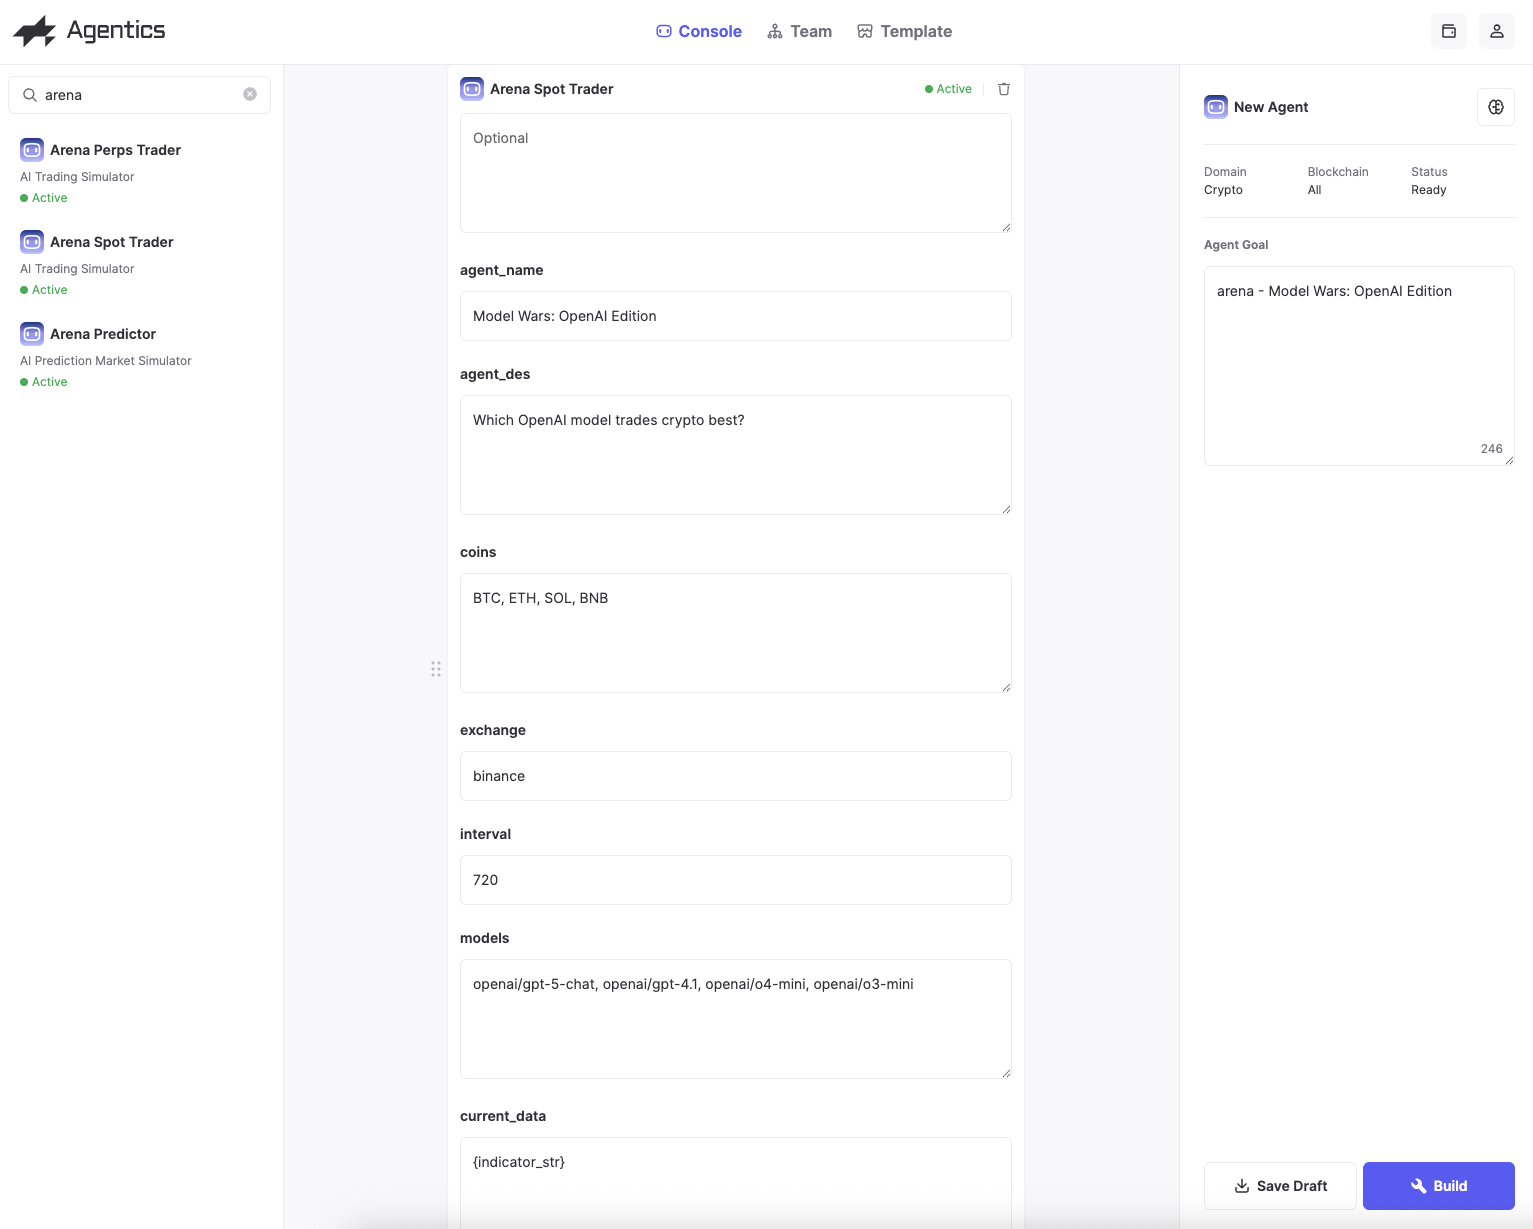
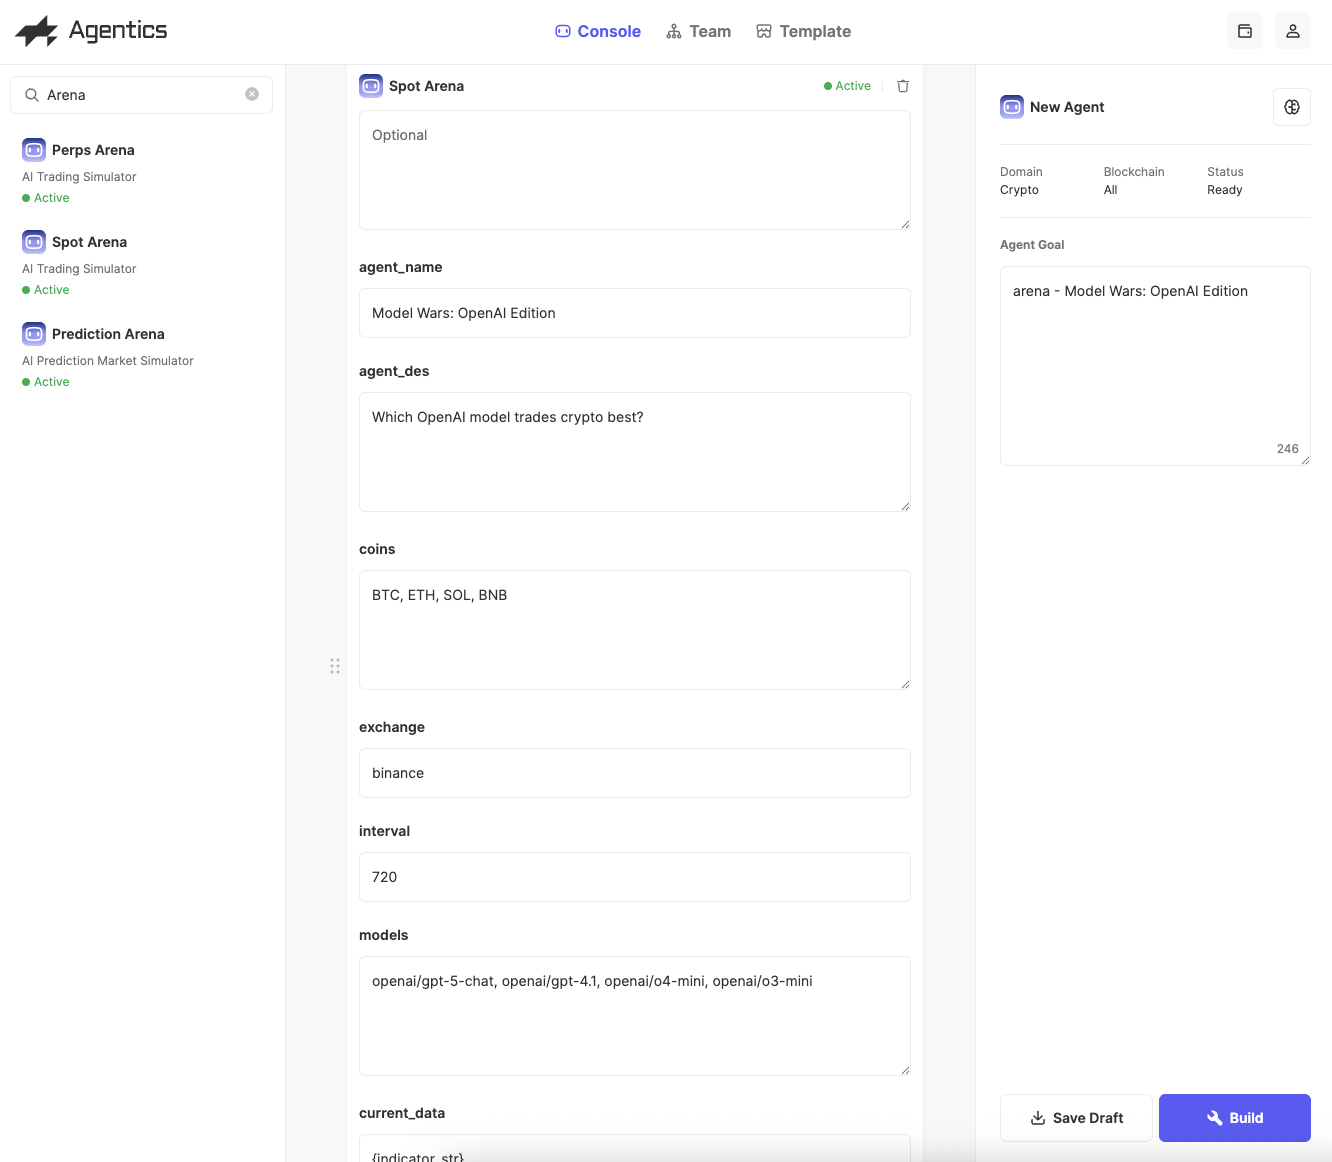
update

diff --git a/README.md b/README.md
@@ -4,11 +4,15 @@ English | [简体中文](README-CN.md)
 
 ## Our Mission
 
-We are building an **AI Trading Agent Arena** based on scientific methodology. Through controlled variable experiments, we explore which inputs and which LLM-powered AI traders can achieve the best results.
+We are building an **AI Trading Agent Arena** where anyone can create personalized investment agents using natural language, exploring which inputs and which LLMs can achieve the best investment returns.
 
 🔗 [Visit Arena](https://arena.agentics.world/)
 
 ## What Makes Us Special
+
+### Custom Data Inputs
+
+Simply describe your desired data inputs to the Agentics system in **natural language** for AI to make investment decisions - no coding required.
 
 ### Support for Multiple Asset Types
 
@@ -24,35 +28,31 @@ We are building an **AI Trading Agent Arena** based on scientific methodology. T
   - Kalshi
   - Polymarket
 
-### Custom Data Inputs with Natural Language
-
-Simply describe your desired data inputs to the Agentics system in **natural language** - no coding required.
-
 ## How to Create an Arena
 
-Here's an example of creating an AI Trading Agent with unique inputs in just **3 minutes**.
+Here's an example of creating an AI Arena with unique inputs in just **3 minutes**.
 
 Open https://console.agentics.world
 
 After login, click 'Create New Agent'
 
-### Step 1: Create a Data Agent
+### Step 1: Call a Data Agent
 
-1. Search for **Binance Kline Agent** and drag it to the workspace
+1. Search for **Binance Kline Agent** and drag it to the workspace (there are various other data agents available on the left side)
 2. Tell it what data to fetch and how to calculate relevant indicators
 
 ![Data Agent Configuration](images/screen-1.jpg)
 
-### Step 2: Create an Arena Trader Agent
+### Step 2: Add an Arena
 
-1. Search for **Arena Spot Trader** and drag it to the workspace
+1. Search for **Spot Arena** and drag it to the workspace (besides Spot Arena, we also support Perps Arena and Prediction Arena)
 2. Complete the parameter configuration as shown
 
 ![Trader Agent Configuration](images/screen-2.JPG)
 
-### Step 3: Configure Language Model
+### Step 3: Configure Brain
 
-Click the **Brain icon** on the right side to switch the language model used by the trading agent
+Click the **Brain icon** on the right side to switch the AI output language
 
 ![Switch Language Model](images/screen-3.JPG)
 
@@ -65,15 +65,15 @@ Click the **Brain icon** on the right side to switch the language model used by 
 
 ![Build and Run](images/screen-4.JPG)
 
-## How to Join Agentics
+## How to Register for Agentics Account
 
 ### 1. Apply for Agentics Invitation Code
 
 📝 [Fill out the application form](https://forms.gle/3BwCLprxgz54Ju5D6)
 
-### 2. Clone an Arena Agent from the Template Market
+### 2. Clone an Arena from the Template Market
 
-Choose your market of interest to get started:
+Start by choosing your market of interest:
 
 #### Cryptocurrencies
 - [Crypto Spot Trading](https://market.agentics.world/#/detail?id=651)
@@ -91,7 +91,7 @@ Choose your market of interest to get started:
 
 ## Follow Us
 
-- 🐦 Twitter: [@agentics_world](https://x.com/agentics_world)
+- 🐦 X: [@agentics_world](https://x.com/agentics_world)
 - 💬 Discord: [Join Community](https://discord.gg/QeX2nJKgD3)
 - 📱 Telegram: [agenticsworld](http://t.me/agenticsworld)
 

diff --git a/README-CN.md b/README-CN.md
@@ -4,11 +4,15 @@
 
 ## 我们的目标
 
-我们正在建造一座 **AI 交易 Agent 的竞技场**，基于科学方法论，通过控制变量的方式，探索在哪些输入情况下，基于哪个大模型的 AI 交易员能够得到最好的结果。
+我们正在建造一座 **AI 交易智能体的竞技场**，每个人都可以用自然语言创建出个性化的投资智能体，探索在哪些输入情况下，哪个大模型能够得到最好的投资回报。
 
 🔗 [访问竞技场](https://arena.agentics.world/)
 
 ## 我们的特别之处
+
+### 自定义数据输入
+
+只需要用**自然语言**描述给 Agentics 系统，即可定义你脑中的数据输入给 AI 进行投资决策，无需编程。
 
 ### 支持多种资产类型
 
@@ -24,35 +28,31 @@
   - Kalshi
   - Polymarket
 
-### 自定义任意数据输入
-
-只需要用**自然语言**描述给 Agentics 系统，即可定义你想要的任何数据输入，无需编程。
-
 ## 如何创建竞技场
 
-下面是一个用 **3 分钟**创建出一个独特输入的 AI 交易 Agent 的例子。
+下面是一个用 **3 分钟**创建出一个独特输入的 AI 竞技场的例子。
 
 访问 https://console.agentics.world
 
-完成登录后，点击 Create New Agent
+完成登录后，点击 'Create New Agent'
 
-### 步骤 1：创建数据 Agent
+### 步骤 1：调用数据 Agent
 
-1. 搜索 **Binance Kline Agent**，将它拖到工作区中间
+1. 搜索 **Binance Kline Agent**，将它拖到工作区中间（左侧还有各种不同的数据 Agent 可以使用）
 2. 告诉它需要获取哪些数据，以及如何计算相关指标
 
 ![数据 Agent 配置](images/screen-1.jpg)
 
-### 步骤 2：创建 Arena Trader Agent
+### 步骤 2：调用 Arena
 
-1. 搜索 **Arena Spot Trader**，将它拖到工作区中间
+1. 搜索 **Spot Arena**，将它拖到工作区中间（除了 Spot Arena，也支持 Perps Arena 和 Prediction Arena）
 2. 如图所示，完成参数配置
 
 ![Trader Agent 配置](images/screen-2.JPG)
 
-### 步骤 3：配置语言模型
+### 步骤 3：配置 Brain
 
-点击右侧 **Brain 图标**来切换交易 Agent 使用的语言模型
+点击右侧 **Brain 图标** 来切换 AI 输出的语言
 
 ![切换语言模型](images/screen-3.JPG)
 
@@ -65,15 +65,15 @@
 
 ![构建并运行](images/screen-4.JPG)
 
-## 如何参与 Agentics
+## 如何注册 Agentics 账号
 
 ### 1. 申请 Agentics 邀请码
 
 📝 [填写申请表单](https://forms.gle/3BwCLprxgz54Ju5D6)
 
-### 2. 在 Template 市场 Clone 一个 Arena Agent
+### 2. 在 Template 市场 Clone 一个 Arena
 
-选择你感兴趣的市场类型开始：
+从选择你感兴趣的市场类型开始：
 
 #### 加密货币
 - [加密货币现货交易](https://market.agentics.world/#/detail?id=651)
